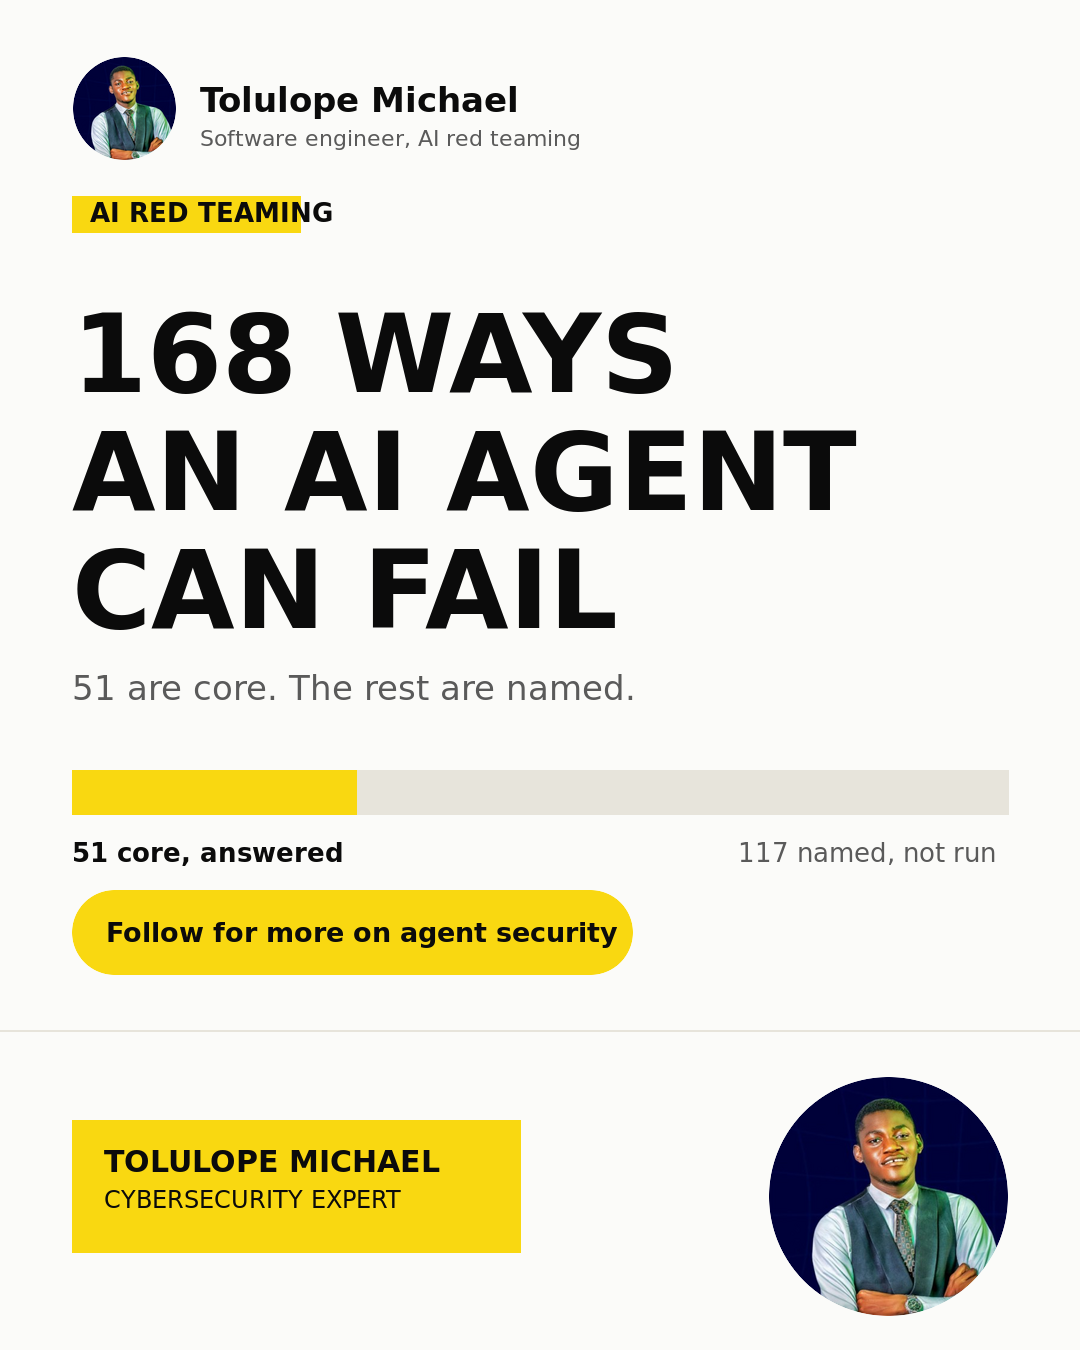
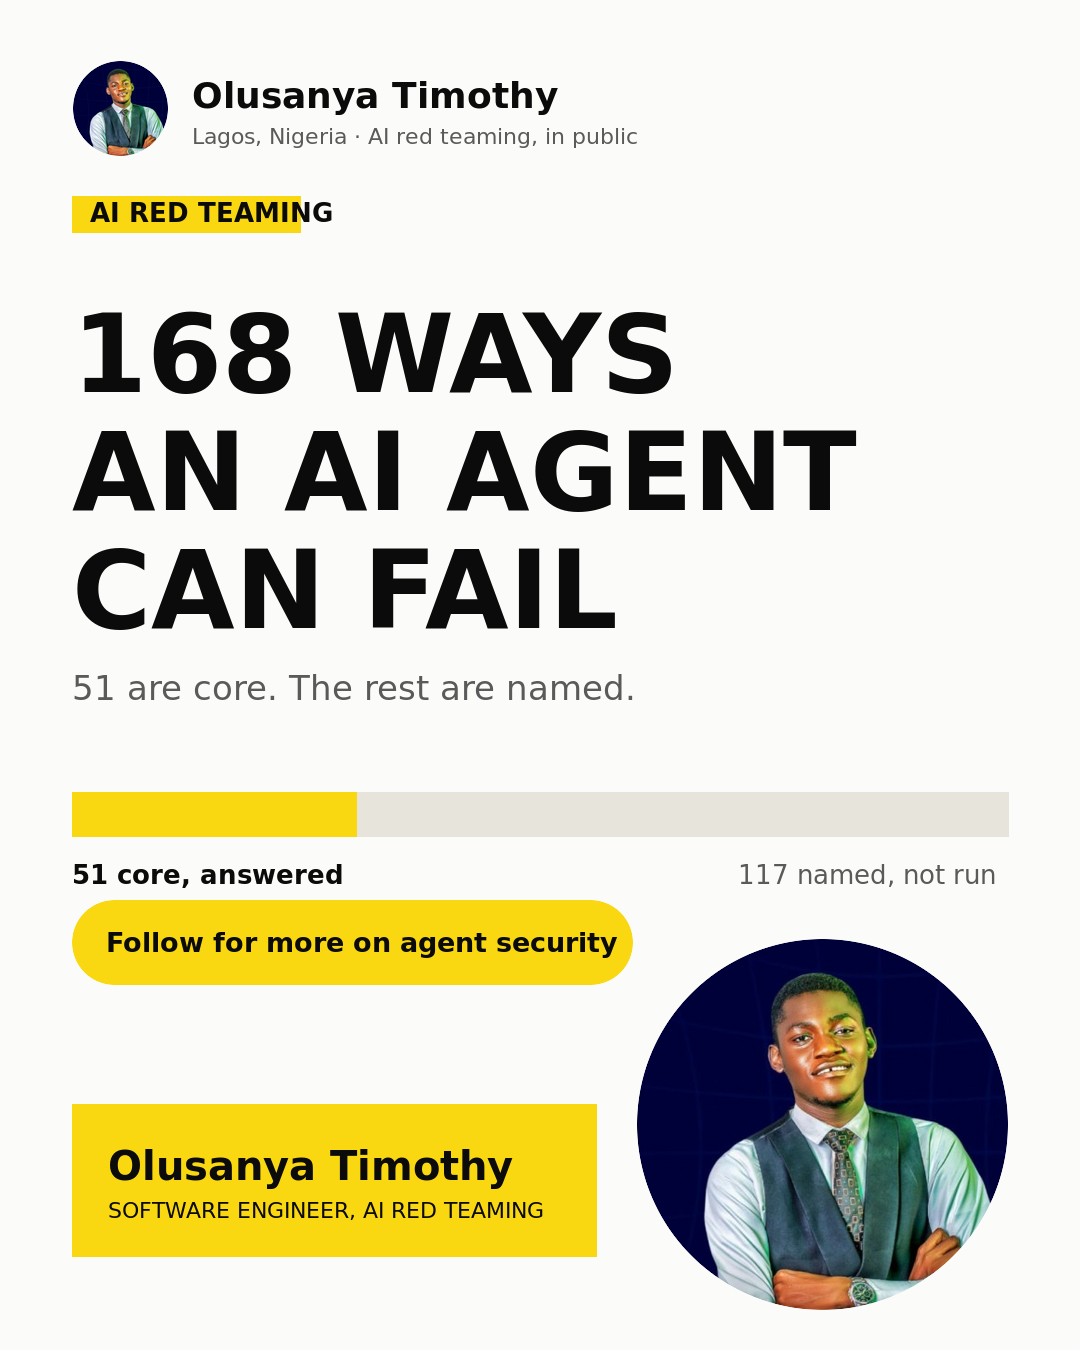
Name on the card is Olusanya Timothy, not the name on the reference design
The reference card belonged to somebody else and its name was copied onto the render. The renderer now
defaults to the owner's name, takes it as an argument, and the photo file no longer carries the borrowed
name either. Layout rebuilt so the portrait and tag fill the lower third.

diff --git a/linkedin_emphire/ASSETS/brand/README.md b/linkedin_emphire/ASSETS/brand/README.md
@@ -1,6 +1,8 @@
 # Brand card template
 
-Set from the owner's reference card on 2026-11-15. Every visual from now on carries his photo and his name, in this layout.
+Set from a reference card the owner supplied on 2026-11-15. Every visual from now on carries his photo and his name, in this layout.
+
+**The name is Olusanya Timothy.** The reference card belonged to somebody else, whose name was printed on the first two renders by mistake. The renderer now defaults to the owner's name and takes it as an argument, so a design can never supply a name again.
 
 ## The rule
 
@@ -18,6 +20,12 @@ A visual without the photo and the name does not ship. The card is 1080x1350, th
 
 Fonts are DejaVu Sans Bold for headline and name, DejaVu Sans for everything else, both already on the machine.
 
+| Field | Value |
+|---|---|
+| Name | Olusanya Timothy |
+| Strapline under the header name | Lagos, Nigeria · AI red teaming, in public |
+| Second line on the yellow tag | SOFTWARE ENGINEER, AI RED TEAMING |
+
 ## Render
 
 ```
@@ -31,11 +39,11 @@ The last four arguments drive the proportion bar, so a card built on a count sho
 
 ## The assets
 
-- `headshot_tolulope_michael_400.jpg` is the master photo, 400x400, copied from the owner's upload on 2026-11-15. Never regenerate it, never restyle it.
+- `headshot_400.jpg` is the master photo, 400x400, copied from the owner's upload on 2026-11-15. Never regenerate it, never restyle it, and never take a portrait from a reference design.
 - `make_card.sh` is the renderer. It takes the copy, not a design decision.
 
 ## Fixed elements
 
-Photo circle and name top left, a yellow "AI RED TEAMING" tab, three headline lines, a proportion bar with the core label left and the remainder right, a yellow follow pill, and the name tag with the title bottom left. The lower right holds the portrait circle.
+Photo circle and name top left, a yellow "AI RED TEAMING" tab, three headline lines, a proportion bar with the core label left and the remainder right, a yellow follow pill above the yellow name tag bottom left, and a 372px portrait circle bottom right.
 
-The name tag reads TOLULOPE MICHAEL and CYBERSECURITY EXPERT, which is the owner's own branding from the reference card. Pass a different pair as arguments 10 and 11 if that ever changes.
+Arguments 10 and 11 are the name on the card and the second line of the tag. They default to Olusanya Timothy and SOFTWARE ENGINEER, AI RED TEAMING.

diff --git a/linkedin_emphire/VERIFIED_POSTS/INDEX.md b/linkedin_emphire/VERIFIED_POSTS/INDEX.md
@@ -43,4 +43,4 @@
 | 33 | 2026-11-13 | nvidia-board-and-the-readable-record | AI Governance / AI Security | TEMPLATE 6 (observational, box READABLE RECORD, 4 verified hashtags) | READY - post Fri 13 Nov, 09:00 WAT (took the morning slot after the case study moved forward). The Nvidia resignation as a governance read: the standard did not change, who could read the record did. Verification table in the post file |
 | 34 | 2026-11-13 | exit-zero-never-checked | AI Security / AI Evaluation | TEMPLATE 1 (technical, box EXIT ZERO, 4 verified hashtags) | READY - slot Sat 14 Nov, 09:00 WAT. A verifier that exits 0 for a signature it never checked, and two of its own cases requiring that. Pasteable Friday evening if the Nvidia post did not go out |
 | — | 2026-11-14 | prefix-collision | AI Evals / SE | Technical deep-dive | ✅ Ready |
-| — | 2026-11-15 | coverage-page | AI Security / AI Evaluation | TEMPLATE 1 (box NAMED, NOT HIDDEN, 4 verified hashtags, visual 1080x1350 branded card with photo and name, from ASSETS/brand/make_card.sh, uploaded to Drive) | READY - post Sat 15 Nov, 09:00 WAT. The checklist has 168 classes; the post argues coverage has to be a count with a named gap, not an adjective, and asks the buyer's question: what did you not test, and why |
+| — | 2026-11-15 | coverage-page | AI Security / AI Evaluation | TEMPLATE 1 (box NAMED, NOT HIDDEN, 4 verified hashtags, visual 1080x1350 branded card, photo and name Olusanya Timothy, from ASSETS/brand/make_card.sh, uploaded to Drive) | READY - post Sat 15 Nov, 09:00 WAT. The checklist has 168 classes; the post argues coverage has to be a count with a named gap, not an adjective, and asks the buyer's question: what did you not test, and why |

diff --git a/linkedin_emphire/CONTENT/POSTS/2026-11-15_coverage-page/post.md b/linkedin_emphire/CONTENT/POSTS/2026-11-15_coverage-page/post.md
@@ -17,9 +17,8 @@ subheadline: "51 core classes, and a reason written next to every skip."
 box: named, not hidden
 box_alt: coverage, counted
 hashtags: "#AIRedTeam #AIEngineering #AISecurity #LLMEvaluation"
-visual_link: https://drive.google.com/file/d/1RtVxrRfPORM3AtTLokpPACi15GewL6bL/view?usp=drivesdk
-visual_template: ASSETS/brand/make_card.sh
-visual_note: 1080x1350 branded card, photo and name on the image, rendered from the template rather than generated
+visual_link: https://drive.google.com/file/d/1x2v1M5tUXee0frysKgs7rA5Knt18du_z/view?usp=drivesdk ASSETS/brand/make_card.sh
+visual_note: 1080x1350 branded card, his photo and his name on the image, rendered from ASSETS/brand/make_card.sh
 premise_checked: >-
   checked: the counts were computed from the repository's own checklist file on 15 November 2026, not remembered. It
   holds 168 classes across six categories, split 51 core, 93 standard and 24 extended, and the core split by category
